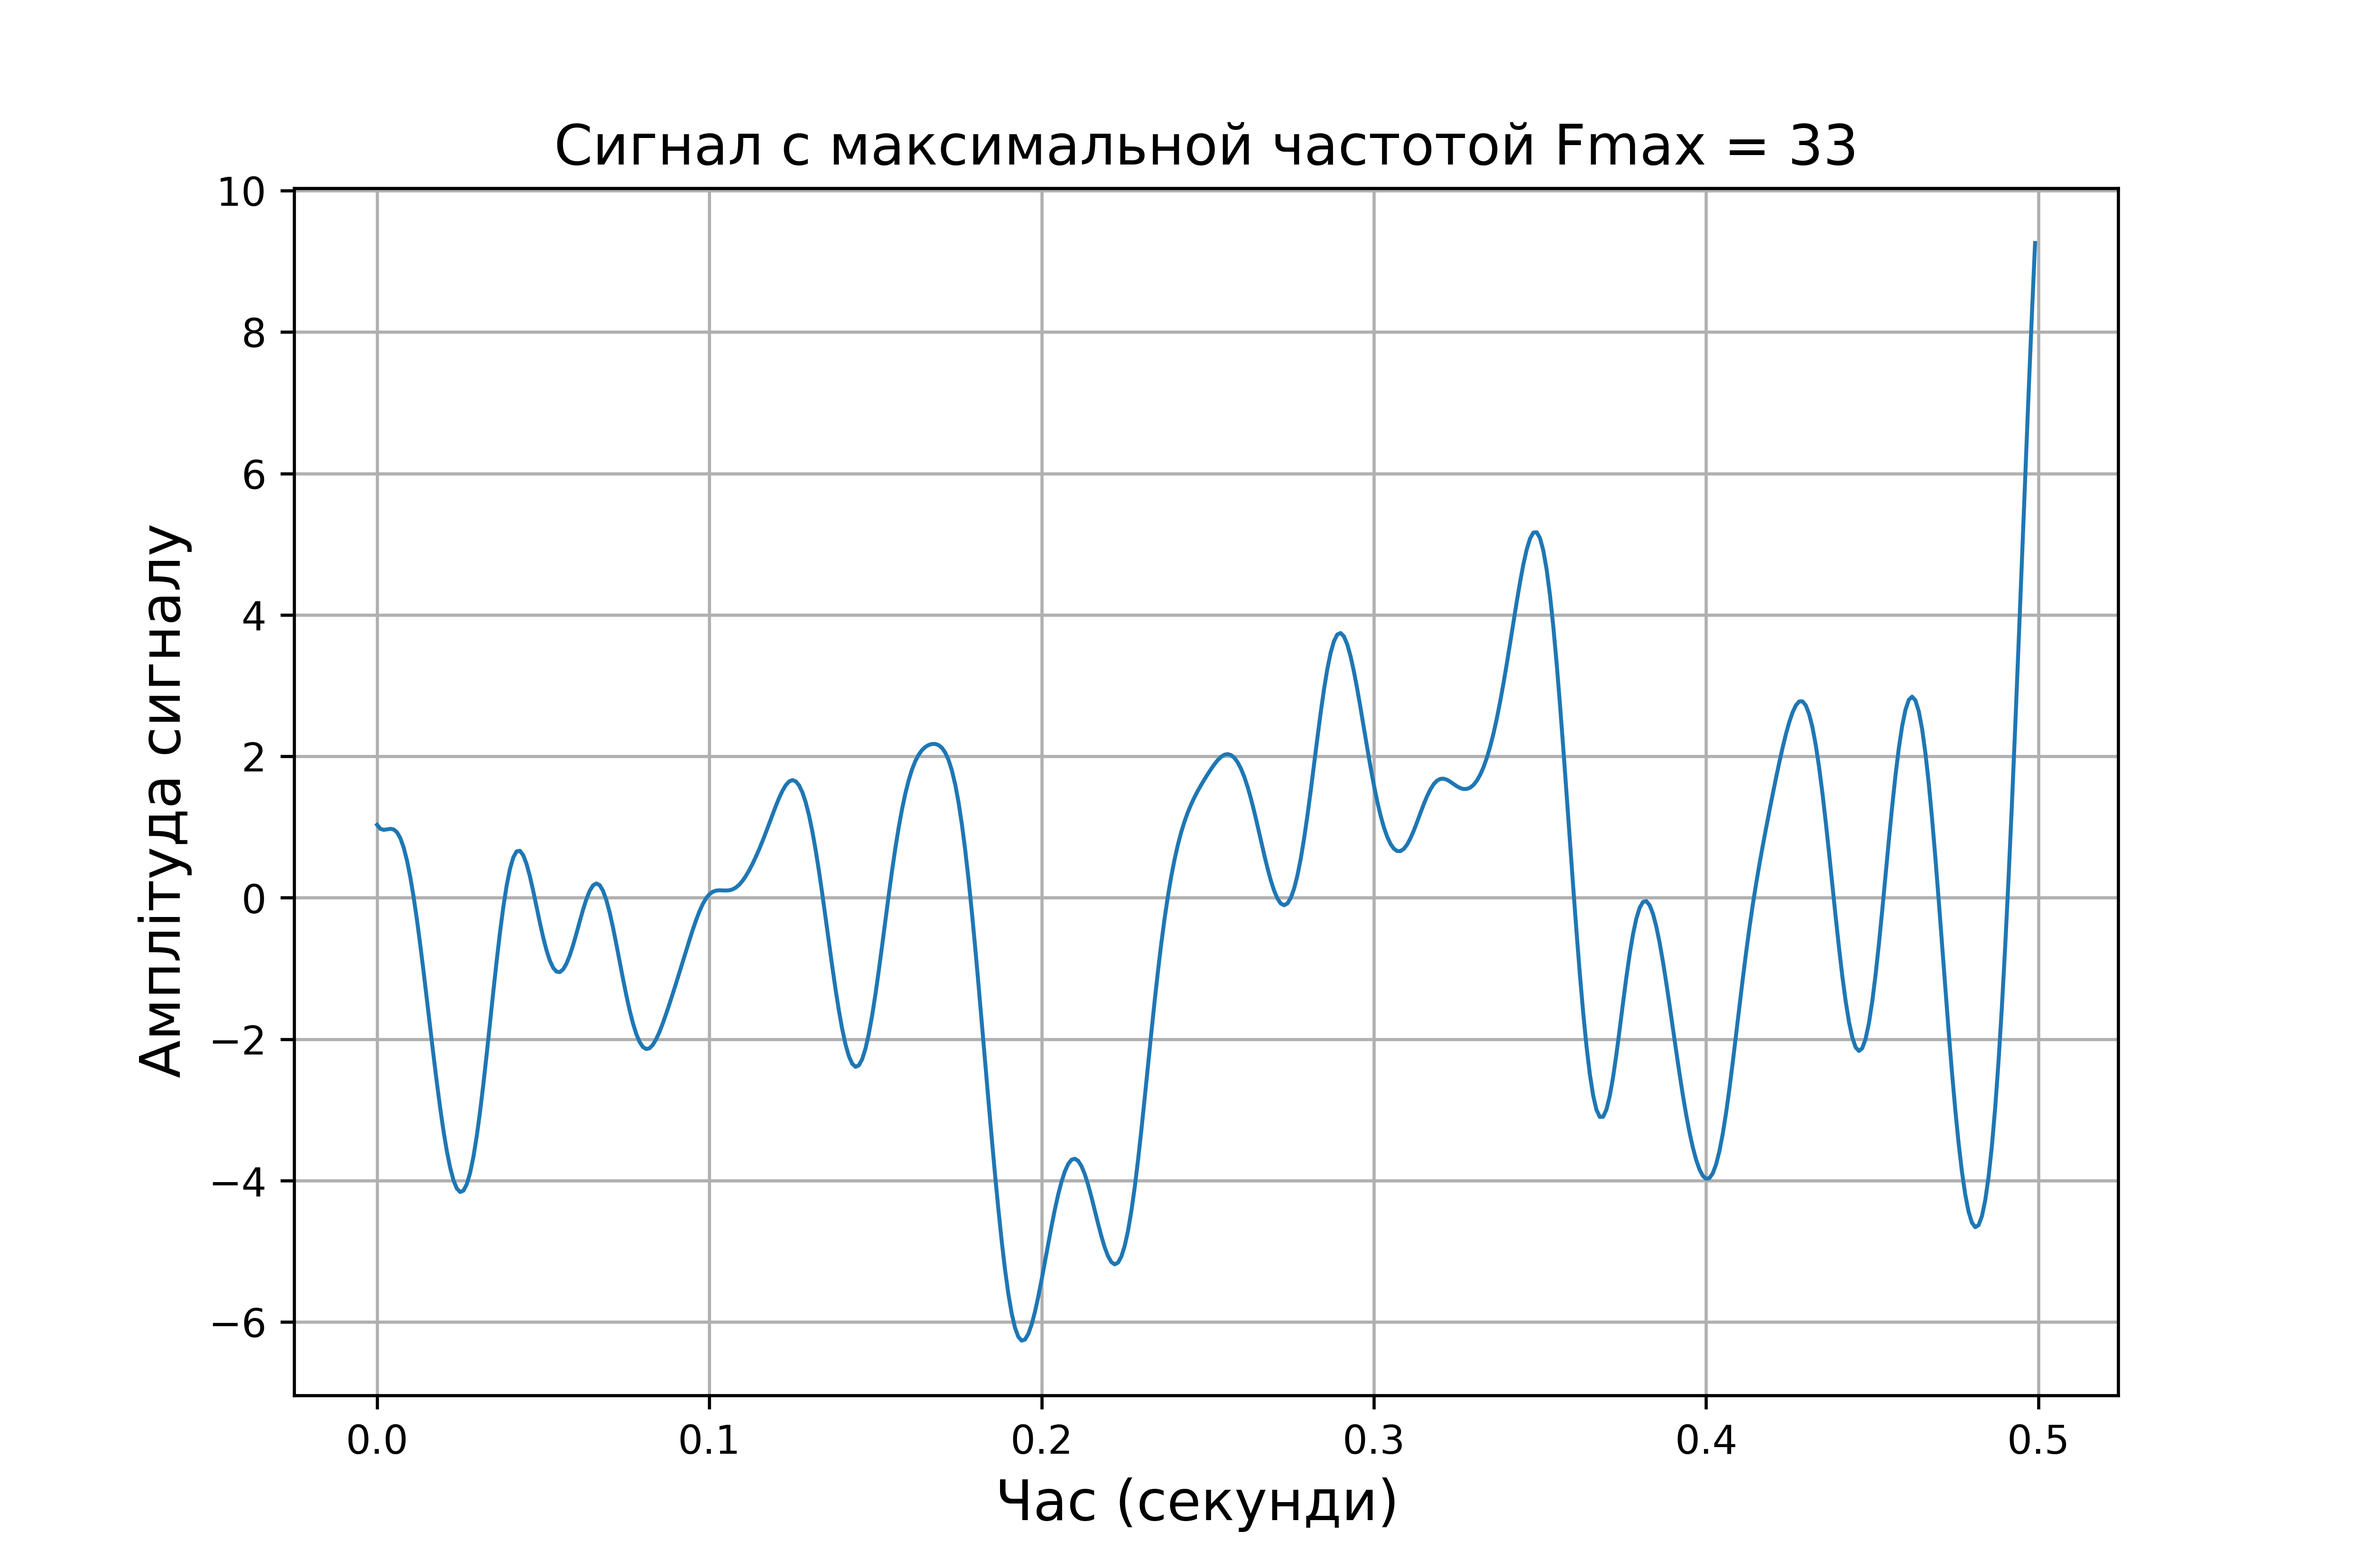
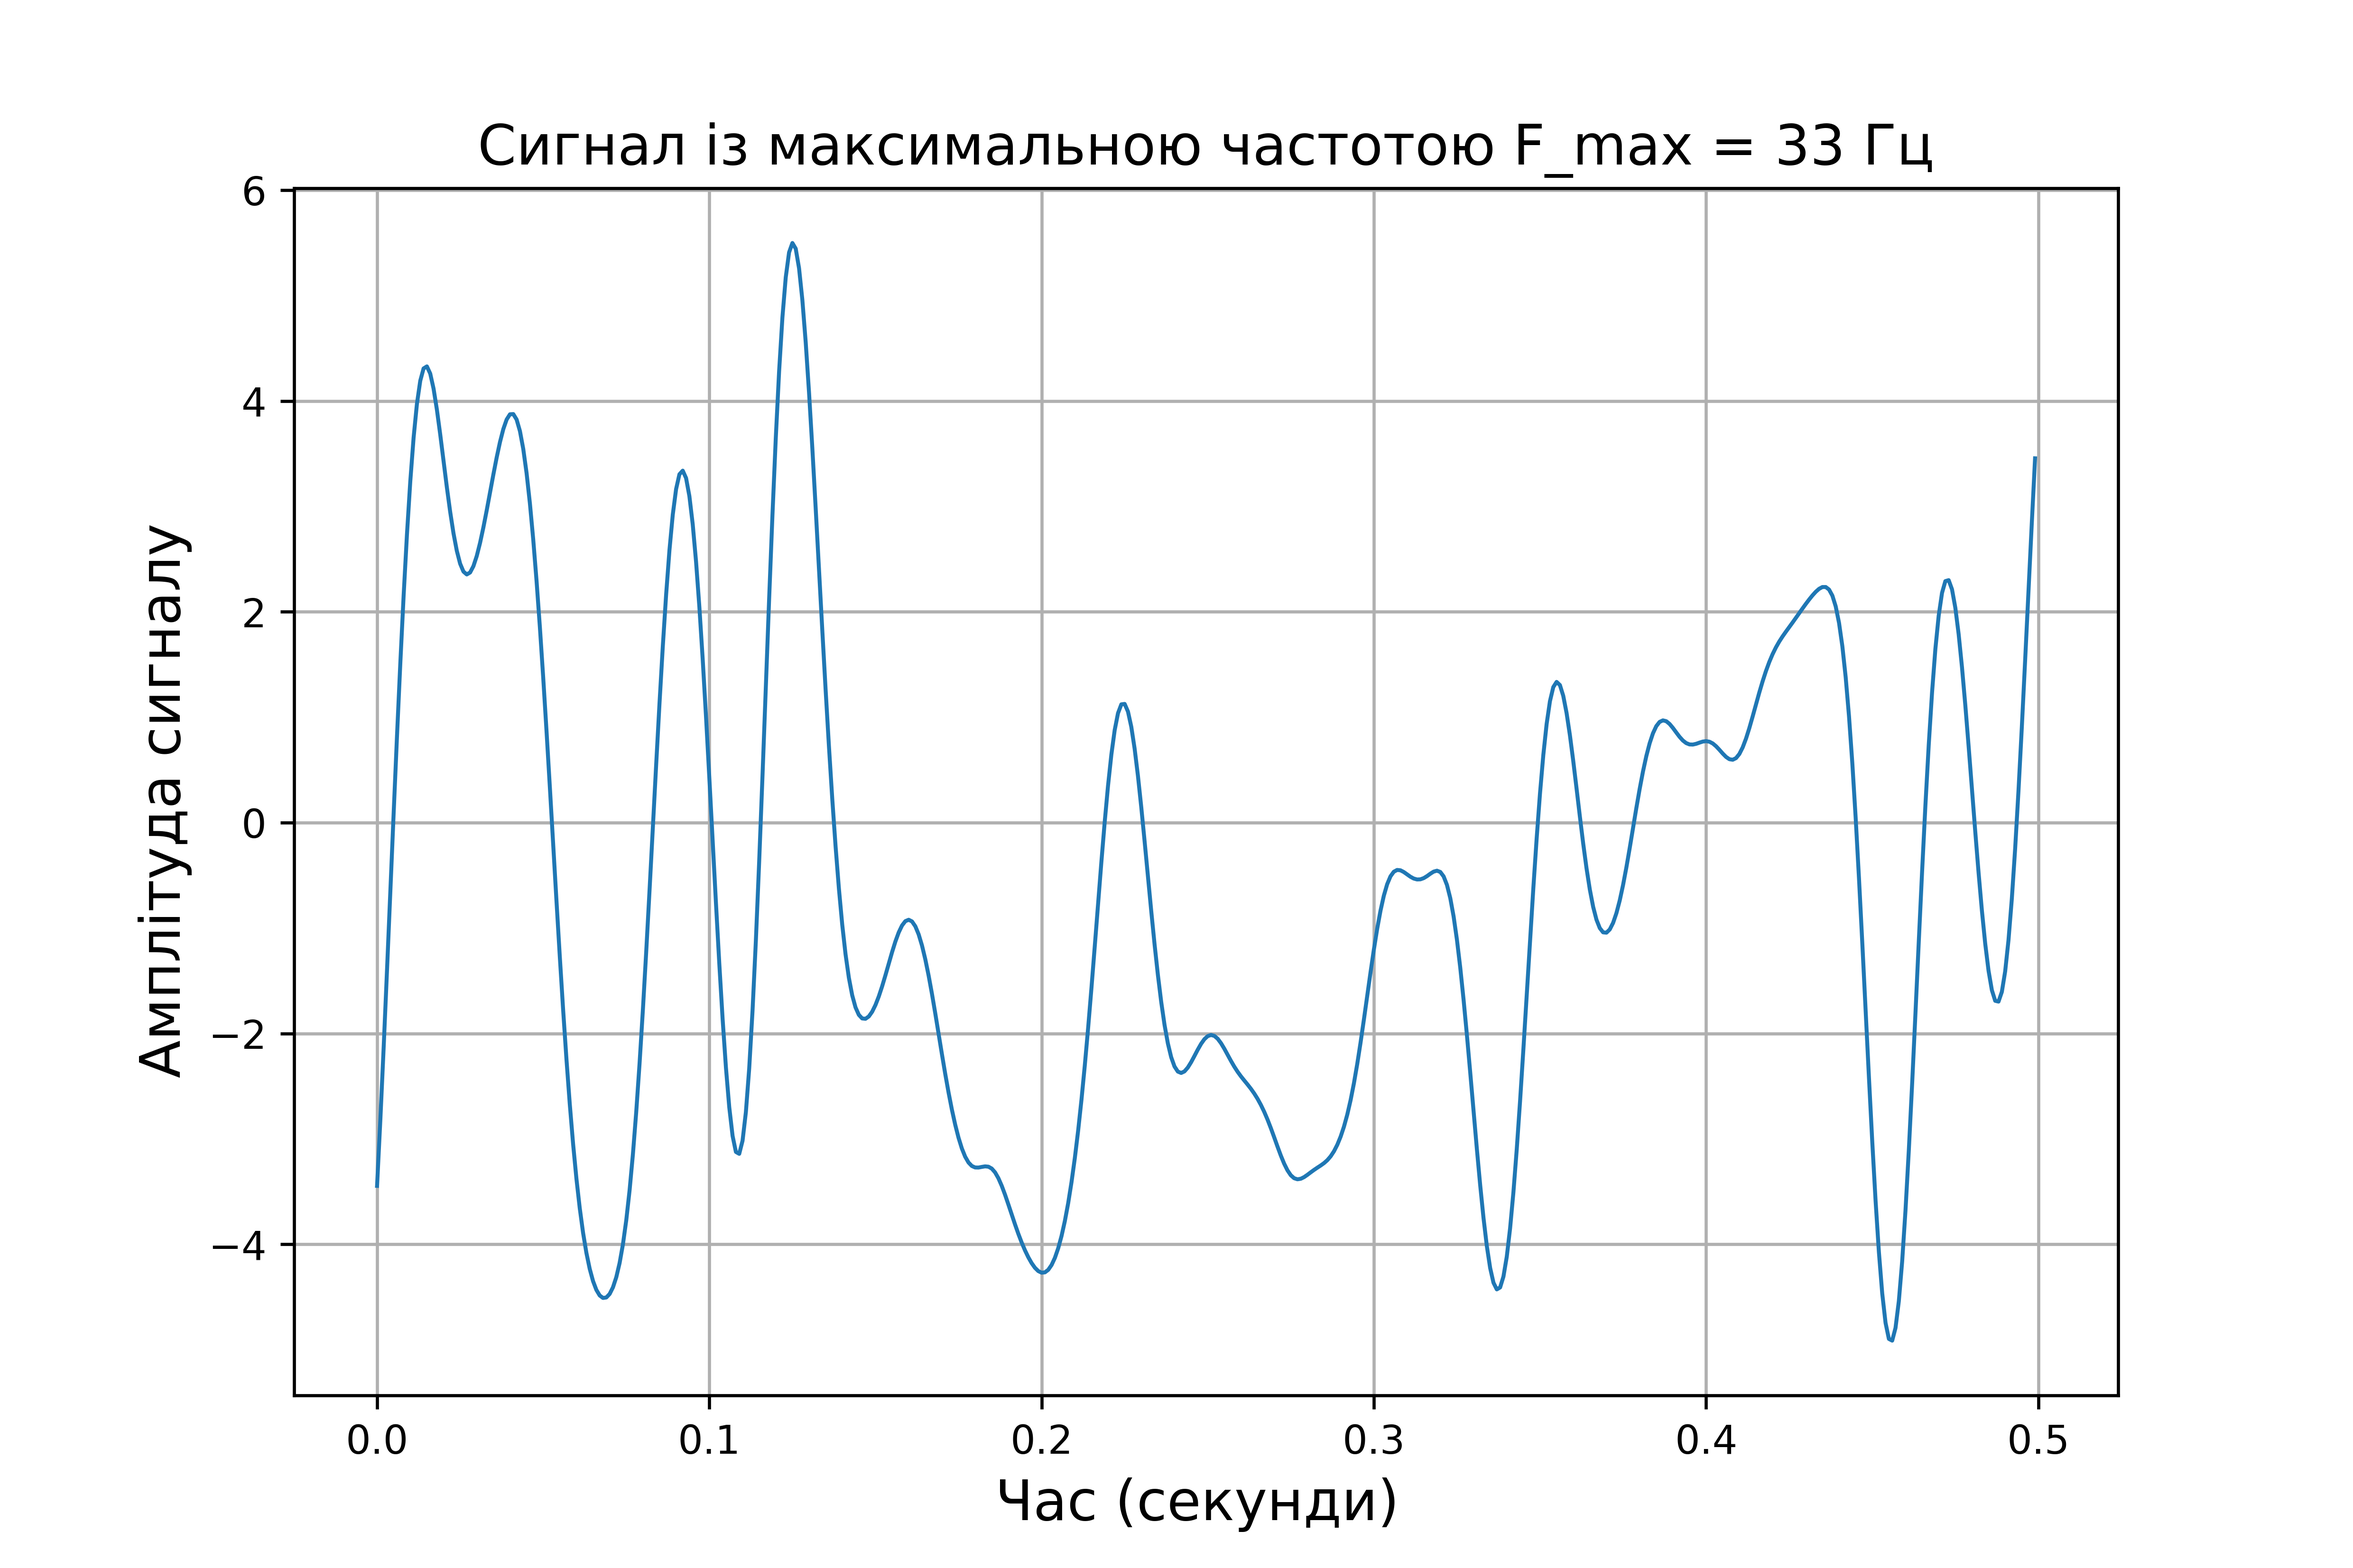
Signal processing, 1

diff --git a/SignalProcessing/SignalProcessing.py b/SignalProcessing/SignalProcessing.py
@@ -21,7 +21,7 @@ fig, ax = plt.subplots(figsize=(21 / 2.54, 14 / 2.54))
 ax.plot(time_line_ox, filtered_signal, linewidth=1)
 ax.set_xlabel("Час (секунди) ", fontsize=14)
 ax.set_ylabel("Амплітуда сигналу ", fontsize=14)
-plt.title("Сигнал із максимальною частотою Fmax = 33", fontsize=14)
+plt.title("Сигнал із максимальною частотою F_max = 33 Гц", fontsize=14)
 ax.grid()
 fig.savefig('./figures/' + 'графік_1' + '.png', dpi=600)
 dpi = 600
@@ -34,8 +34,8 @@ freq_countdown = scipy.fft.fftshift(freq_countdown)
 # 2-nd chart
 fig, ax = plt.subplots(figsize=(21 / 2.54, 14 / 2.54))
 ax.plot(freq_countdown, spectrum, linewidth=1)
-ax.set_xlabel("Час (секунди) ", fontsize=14)
+ax.set_xlabel("Частота (Гц) ", fontsize=14)
 ax.set_ylabel("Амплітуда спектра ", fontsize=14)
-plt.title("Спектр сигнала із максимальною частотой Fmax = 21", fontsize=14)
+plt.title("Спектр сигнала із максимальною частотой F_max = 33 Гц", fontsize=14)
 ax.grid()
 fig.savefig('./figures/' + 'графік_2' + '.png', dpi=600)
